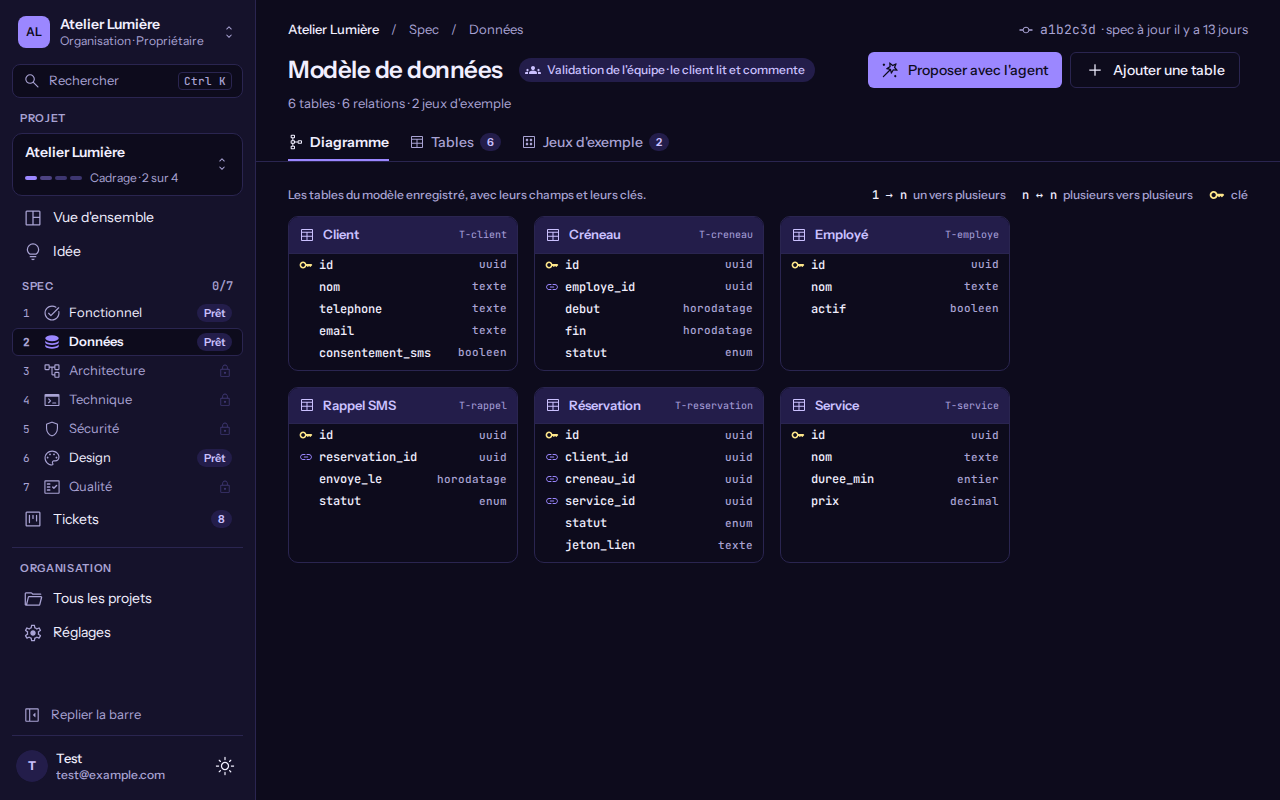
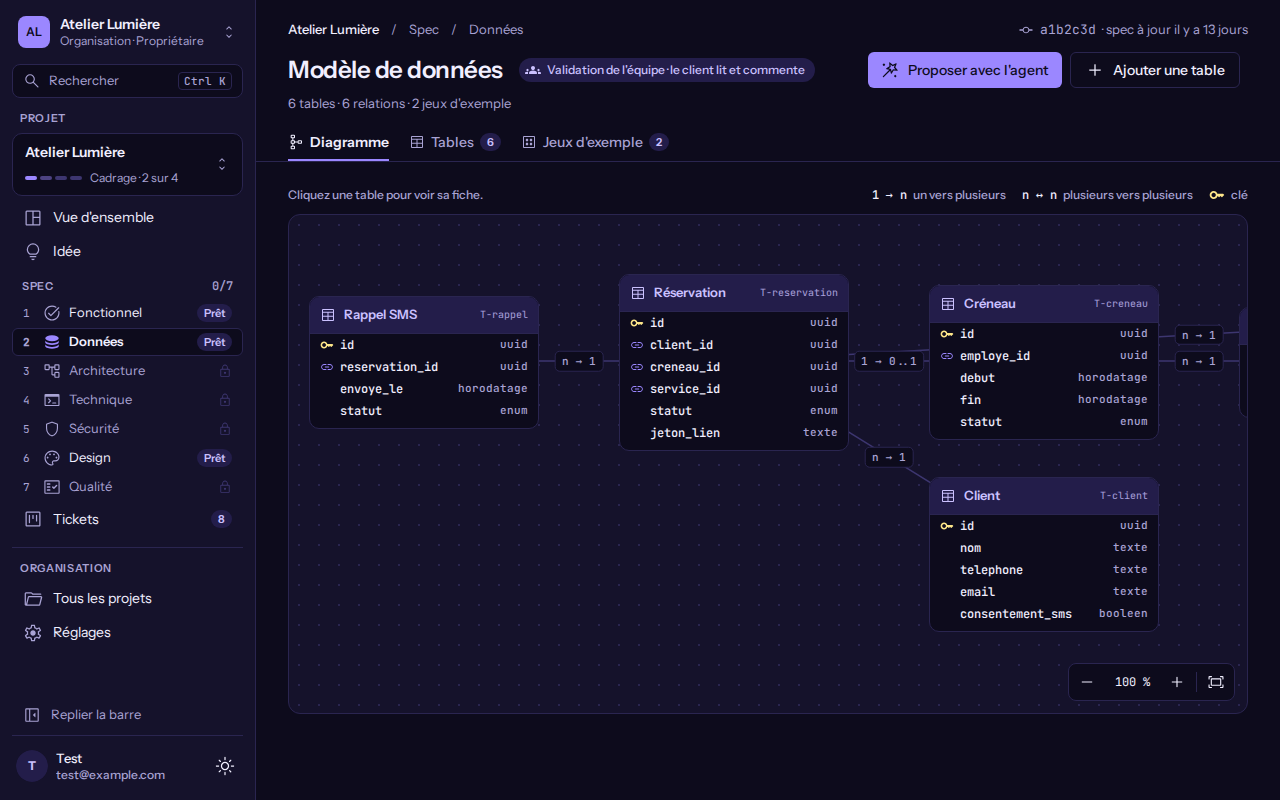
test(e2e): diagramme, fiche, zoom 50 et 200 %, relecture, axe et captures (TK-108)
Claude-Session: https://claude.ai/code/session_011hPeox6QfBBuMqxdquWZTC

diff --git a/apps/web/e2e/spec-data.spec.ts b/apps/web/e2e/spec-data.spec.ts
@@ -4,6 +4,7 @@ import {
   AXE_TAGS,
   CAPTURES_DIR,
   type KanbanRole,
+  layoutSavesSeen,
   releaseHeld,
   setScenario,
   settle,
@@ -15,7 +16,7 @@ import { FEATURE_PROJECT_ID, type SpecMode } from "./support/stub-features.ts";
 import type { ProposalsMode } from "./support/stub-proposals.ts";
 
 /**
- * TK-107 lot C, écran Données (design/screens/S-spec-data.md v1, maquette 11) : chaque état (Prêt, Génération, Relecture,
+ * TK-107 lot C et TK-108 lot C, écran Données (design/screens/S-spec-data.md v3, maquette 11) : chaque état (Prêt, Génération, Relecture,
  * Liste · équipe) sur les onglets Tables et Jeux d'exemple, plus Diagramme, Relecture, volume de 80 tables, recherche
  * vide, formulaire et droits, en clair, sombre et à 375 px, avec axe et sans défilement horizontal de page. Pile locale :
  * faux API (support/stub-spec-data.ts). Captures dans design/screens/captures/S-spec-data/<état>-<onglet>-<thème>[-mobile].png.
@@ -36,6 +37,12 @@ interface View {
   visible: (page: Page) => Promise<void>;
   /** Au plus une région `role=status` dans le document (une région vide est masquée, jamais doublée). */
   singleStatus?: boolean;
+  /** Geste après l'état visible (sélection d'une table, vue YAML, zoom) : la capture le montre. */
+  act?: (page: Page) => Promise<void>;
+  /** Ré-affirmé juste avant la capture, après stabilisation de la page. */
+  settled?: (page: Page) => Promise<void>;
+  /** Capture du bureau seulement (vues YAML, Mermaid et zooms). */
+  desktopOnly?: boolean;
 }
 
 const tablesLoaded = async (page: Page, rows: number) => {
@@ -47,8 +54,22 @@ const fixtureLoaded = async (page: Page) => {
   await expect(page.getByRole("table", { name: "Lignes du jeu Clients" })).toBeVisible();
 };
 const diagramLoaded = async (page: Page, cards: number) => {
-  await expect(page.getByRole("list", { name: "Diagramme entité-relation" })).toBeVisible();
+  await expect(page.getByRole("region", { name: "Diagramme entité-relation" })).toBeVisible();
   await expect(page.locator("[data-slot='er-table-card']")).toHaveCount(cards);
+};
+const card = (page: Page, name: string) =>
+  page.getByRole("button", { name: new RegExp(`^Table ${name},`) });
+const fiche = (page: Page) =>
+  page
+    .getByRole("complementary", { name: "Fiche de la table" })
+    .or(page.getByRole("dialog", { name: "Fiche de la table" }));
+const pick = async (page: Page, name: string) => {
+  await card(page, name).click();
+  await expect(fiche(page).getByRole("heading", { level: 2, name })).toBeVisible();
+};
+const zoom = async (page: Page, label: "Zoomer" | "Dézoomer", times: number) => {
+  for (let i = 0; i < times; i += 1)
+    await page.getByRole("button", { name: label, exact: true }).click();
 };
 const ready = async (page: Page) => {
   await expect(page.getByText("L'agent peut proposer le modèle de données")).toBeVisible();
@@ -106,8 +127,58 @@ const VIEWS: View[] = [
   {
     name: "list-diagram",
     path: `${PATH}?tab=diagram`,
-    singleStatus: true,
     visible: (page) => diagramLoaded(page, 6),
+  },
+  {
+    name: "list-diagram-fiche",
+    path: `${PATH}?tab=diagram`,
+    visible: (page) => diagramLoaded(page, 6),
+    act: (page) => pick(page, "Réservation"),
+    // La fiche doit toujours être là au moment de la capture (la sélection vit dans l'adresse).
+    settled: (page) =>
+      expect(fiche(page).getByRole("heading", { level: 2, name: "Réservation" })).toBeVisible(),
+  },
+  {
+    name: "list-diagram-yaml",
+    path: `${PATH}?tab=diagram`,
+    desktopOnly: true,
+    visible: (page) => diagramLoaded(page, 6),
+    act: async (page) => {
+      await pick(page, "Réservation");
+      await fiche(page).getByRole("button", { name: "YAML" }).click();
+      await expect(fiche(page).getByText("Source de vérité")).toBeVisible();
+    },
+  },
+  {
+    name: "list-diagram-mermaid",
+    path: `${PATH}?tab=diagram`,
+    desktopOnly: true,
+    visible: (page) => diagramLoaded(page, 6),
+    act: async (page) => {
+      await pick(page, "Réservation");
+      await fiche(page).getByRole("button", { name: "Mermaid" }).click();
+      await expect(fiche(page).getByText("data/model.mmd")).toBeVisible();
+    },
+  },
+  {
+    name: "list-diagram-zoom-50",
+    path: `${PATH}?tab=diagram`,
+    desktopOnly: true,
+    visible: (page) => diagramLoaded(page, 6),
+    act: async (page) => {
+      await zoom(page, "Dézoomer", 4);
+      await expect(page.getByText(/Zoom sous 60 %/)).toBeVisible();
+    },
+  },
+  {
+    name: "list-diagram-zoom-200",
+    path: `${PATH}?tab=diagram`,
+    desktopOnly: true,
+    visible: (page) => diagramLoaded(page, 6),
+    act: async (page) => {
+      await zoom(page, "Zoomer", 4);
+      await expect(page.getByRole("button", { name: "200 %, revenir à 100 %" })).toBeVisible();
+    },
   },
   {
     name: "review-diagram",
@@ -117,6 +188,26 @@ const VIEWS: View[] = [
     visible: async (page) => {
       await diagramLoaded(page, 6);
       await expect(page.getByText("Pointillés : proposition à relire")).toBeVisible();
+    },
+  },
+  {
+    name: "review-diagram-rejected",
+    spec: "dataEmpty",
+    proposals: "data",
+    path: `${PATH}?tab=diagram&view=review`,
+    visible: (page) => diagramLoaded(page, 6),
+    act: async (page) => {
+      // Les décisions se prennent dans l'onglet Relecture : rejeter « Client », puis revenir au diagramme.
+      await page.getByRole("link", { name: /^Relecture/ }).click();
+      await expect(page.getByRole("region", { name: "Diagramme entité-relation" })).toHaveCount(0);
+      await page
+        .getByRole("button", { name: /Client/ })
+        .first()
+        .click();
+      await page.getByRole("button", { name: /^Rejeter/ }).click();
+      await page.getByRole("link", { name: /^Diagramme/ }).click();
+      await diagramLoaded(page, 6);
+      await expect(page.getByText("Rejetée").first()).toBeVisible();
     },
   },
   {
@@ -178,6 +269,7 @@ const VIEWS: View[] = [
 for (const viewport of VIEWPORTS) {
   for (const theme of THEMES) {
     for (const view of VIEWS) {
+      if (view.desktopOnly && viewport.name) continue;
       test(`S-spec-data ${view.name} (${theme}${viewport.name}) : état, axe sans violation, capture`, async ({
         page,
       }) => {
@@ -197,12 +289,14 @@ for (const viewport of VIEWPORTS) {
         }
         await page.goto(view.path);
         await view.visible(page);
+        await view.act?.(page);
         await expect(page.locator("html")).toHaveClass(
           theme === "dark" ? /dark/ : /^((?!dark).)*$/,
         );
         if (view.singleStatus)
           expect(await page.locator("[role='status']").count()).toBeLessThanOrEqual(1);
         await settle(page);
+        await view.settled?.(page);
         await page.screenshot({
           path: `${CAPTURES_DIR}/S-spec-data/${view.name}-${theme}${viewport.name}.png`,
           fullPage: true,
@@ -350,6 +444,92 @@ test.describe("parcours de l'écran Données", () => {
         ],
       },
     ]);
+  });
+});
+
+// biome-ignore lint/complexity/noExcessiveLinesPerFunction: suite de cas, un test par comportement
+test.describe("diagramme du modèle (TK-108)", () => {
+  test.beforeEach(async ({ page }) => {
+    await page.setViewportSize({ width: 1280, height: 900 });
+    await setScenario({ session: true, projects: "data", proposals: "none" });
+  });
+
+  test("sélection : la table est pressée, sa fiche s'ancre avec Fiche, YAML et Mermaid", async ({
+    page,
+  }) => {
+    await page.goto(`${PATH}?tab=diagram`);
+    await diagramLoaded(page, 6);
+    await pick(page, "Réservation");
+    await expect(card(page, "Réservation")).toHaveAttribute("aria-pressed", "true");
+    await expect(fiche(page).getByRole("table", { name: "Champs de la table" })).toBeVisible();
+    await fiche(page).getByRole("button", { name: "YAML" }).click();
+    await expect(fiche(page).locator("pre")).toContainText("id: T-reservation");
+    await fiche(page).getByRole("button", { name: "Mermaid" }).click();
+    await expect(fiche(page).locator("pre")).toContainText("erDiagram");
+  });
+
+  test("glisser une table enregistre toute la mise en page une seule fois", async ({ page }) => {
+    await page.goto(`${PATH}?tab=diagram`);
+    await diagramLoaded(page, 6);
+    await page.getByRole("button", { name: "Ajuster à l'écran" }).click();
+    const box = await card(page, "Service").boundingBox();
+    if (!box) throw new Error("carte Service introuvable");
+    await page.mouse.move(box.x + 40, box.y + 10);
+    await page.mouse.down();
+    await page.mouse.move(box.x + 140, box.y + 60, { steps: 8 });
+    await page.mouse.up();
+    await expect.poll(async () => (await layoutSavesSeen()).length, { timeout: 5000 }).toBe(1);
+    const [saved] = await layoutSavesSeen();
+    expect(Object.keys(saved?.positions ?? {})).toEqual(["T-service"]);
+  });
+
+  test("Alt + flèche déplace la table de 20 px (alternative au glisser) et enregistre", async ({
+    page,
+  }) => {
+    await page.goto(`${PATH}?tab=diagram`);
+    await diagramLoaded(page, 6);
+    await card(page, "Client").focus();
+    await page.keyboard.press("Alt+ArrowRight");
+    await expect(page.getByText("Client déplacée")).toBeAttached();
+    await expect.poll(async () => (await layoutSavesSeen()).length, { timeout: 5000 }).toBe(1);
+  });
+
+  test("zoom mémorisé par navigateur : rouvert au rechargement", async ({ page }) => {
+    await page.goto(`${PATH}?tab=diagram`);
+    await diagramLoaded(page, 6);
+    await zoom(page, "Zoomer", 1);
+    await expect(page.getByRole("button", { name: "110 %, revenir à 100 %" })).toBeVisible();
+    await page.reload();
+    await diagramLoaded(page, 6);
+    await expect(page.getByRole("button", { name: "110 %, revenir à 100 %" })).toBeVisible();
+  });
+
+  test("sous 1024 px, Tables s'ouvre par défaut", async ({ page }) => {
+    await page.setViewportSize({ width: 900, height: 800 });
+    await page.goto(PATH);
+    await tablesLoaded(page, 6);
+    await expect(page.getByRole("region", { name: "Diagramme entité-relation" })).toHaveCount(0);
+  });
+
+  test("designer : lecture seule, pas de glisser ni de « Modifier », YAML visible", async ({
+    page,
+  }) => {
+    await setScenario({ session: true, projects: "data", role: "designer", proposals: "none" });
+    await page.goto(`${PATH}?tab=diagram`);
+    await diagramLoaded(page, 6);
+    await page.getByRole("button", { name: "Ajuster à l'écran" }).click();
+    const box = await card(page, "Service").boundingBox();
+    if (!box) throw new Error("carte Service introuvable");
+    await page.mouse.move(box.x + 40, box.y + 10);
+    await page.mouse.down();
+    await page.mouse.move(box.x + 140, box.y + 60, { steps: 8 });
+    await page.mouse.up();
+    await pick(page, "Service");
+    await expect(fiche(page).getByRole("button", { name: "Modifier" })).toHaveCount(0);
+    await fiche(page).getByRole("button", { name: "YAML" }).click();
+    await expect(fiche(page).getByText("Source de vérité")).toBeVisible();
+    await page.waitForTimeout(1000);
+    expect(await layoutSavesSeen()).toHaveLength(0);
   });
 });
 

diff --git a/apps/web/e2e/support/stub-spec-data.ts b/apps/web/e2e/support/stub-spec-data.ts
@@ -376,11 +376,86 @@ interface Handlers {
   send: (reply: Reply) => void;
 }
 
+// --- Diagramme (TK-108, contrat 3.6.0) : positions enregistrées dans data/_layout.yaml et source d'une table ---
+type Position = { x: number; y: number };
+let layoutPositions: Record<string, Position> = {};
+const layoutSaves: Array<Record<string, unknown>> = [];
+
+/** Remet à zéro les positions et le journal des dépôts (changement de scénario). */
+export function resetLayout(): void {
+  layoutPositions = {};
+  layoutSaves.length = 0;
+}
+
+const LAYOUT_SHA = "b2c3d4e5f60718293a4b5c6d7e8f9012345678a1";
+
+const sourceYamlOf = (table: Table): string => {
+  const lines = [
+    `id: ${table.specId}`,
+    `nom: ${table.name}`,
+    "description: >",
+    `  ${table.description}`,
+    `source: [${table.sources.join(", ")}]`,
+    "champs:",
+  ];
+  for (const [name, type, constraint, kind, personal] of table.fields) {
+    lines.push(`  - nom: ${name}`, `    type: ${type}`);
+    lines.push(kind === "pk" ? "    cle: primaire" : `    contraintes: "${constraint}"`);
+    if (personal) lines.push("    donnees_personnelles: true   # NFR-001");
+  }
+  if (table.relations.length > 0) lines.push("relations:");
+  for (const relation of table.relations) {
+    lines.push(`  - vers: ${relation.to}`, `    cardinalite: "${relation.cardinality}"`);
+  }
+  return `${lines.join("\n")}\n`;
+};
+
+const LAYOUT = /^\/projects\/[^/]+\/spec\/data\/layout$/;
+const SOURCE = /^\/projects\/[^/]+\/spec\/data\/tables\/([^/]+)\/source$/;
+
+/** Lecture et dépôt des positions, source d'une table, journal des dépôts (`/__layout-saves`). */
+function handleDiagram(req: IncomingMessage, url: URL, h: Handlers, mode: string): boolean {
+  if (url.pathname === "/__layout-saves") {
+    h.send(reply(200, layoutSaves));
+    return true;
+  }
+  if (LAYOUT.test(url.pathname)) {
+    if (req.method === "POST") {
+      let raw = "";
+      req.on("data", (chunk) => {
+        raw += chunk;
+      });
+      req.on("end", () => {
+        const body = JSON.parse(raw || "{}") as { positions?: Record<string, Position> };
+        layoutSaves.push(body);
+        layoutPositions = body.positions ?? {};
+        h.send(reply(200, { commitSha: LAYOUT_SHA }));
+      });
+    } else h.send(reply(200, { positions: layoutPositions, commitSha: LAYOUT_SHA }));
+    return true;
+  }
+  const source = req.method === "GET" ? SOURCE.exec(url.pathname) : null;
+  if (!source) return false;
+  const found = tablesOf(mode).find((t) => t.specId === source[1]);
+  h.send(
+    found
+      ? reply(200, {
+          path: `data/tables/${found.specId.slice(2)}.yaml`,
+          text: sourceYamlOf(found),
+          commitSha: SHA,
+          generated: false,
+        })
+      : typed(404, "NOT_FOUND"),
+  );
+  return true;
+}
+
 const DATA = /^\/projects\/[^/]+\/spec\/data\/(tables|mermaid|fixtures)(?:\/([^/]+)\/rows)?$/;
 const ITEM = /^\/projects\/[^/]+\/spec\/items\/table\/([^/]+)$/;
 
 /** Répond aux lectures des onglets Données et à la lecture d'édition d'une table, `false` pour toute autre route. */
 export function handleSpecData(req: IncomingMessage, url: URL, h: Handlers, mode: string): boolean {
+  if (handleDiagram(req, url, h, mode)) return true;
   if (req.method !== "GET") return false;
   const item = ITEM.exec(url.pathname);
   if (item) {

diff --git a/apps/web/e2e/support/helpers.ts b/apps/web/e2e/support/helpers.ts
@@ -146,6 +146,10 @@ export interface SpecWrite {
 export const specWritesSeen = async (): Promise<SpecWrite[]> =>
   (await fetch(`${STUB}/__spec-writes`)).json();
 
+/** Dépôts de positions du diagramme reçus par le faux API (`spec.data.layout.save` : corps), dans l'ordre. */
+export const layoutSavesSeen = async (): Promise<Array<{ positions: Record<string, unknown> }>> =>
+  (await fetch(`${STUB}/__layout-saves`)).json();
+
 /** Appels des fournisseurs d'IA reçus par le faux API (le corps de l'ajout porte la clé), dans l'ordre. */
 export interface ProviderCall {
   method: string;

diff --git a/apps/web/e2e/support/stub-features.ts b/apps/web/e2e/support/stub-features.ts
@@ -8,7 +8,7 @@ import {
   resetFeatureWrites,
   type WriteMode,
 } from "./stub-feature-write.ts";
-import { dataCounts, handleSpecData } from "./stub-spec-data.ts";
+import { dataCounts, handleSpecData, resetLayout } from "./stub-spec-data.ts";
 import { domainCounts, handleSpecDomain } from "./stub-spec-domain.ts";
 import { handleSpecItem, type SpecItemScenario } from "./stub-spec-item.ts";
 
@@ -159,6 +159,7 @@ let specRepoCreated = false;
 
 export function resetFeatures(): void {
   resetFeatureWrites();
+  resetLayout();
   reads.length = 0;
   specRepoCreated = false;
 }

diff --git a/design/screens/S-spec-data.md b/design/screens/S-spec-data.md
@@ -1,7 +1,7 @@
 ---
 id: S-spec-data
 titre: Spec · Données (modèle de données : Prêt, Génération, Relecture, Liste · équipe)
-version: 2
+version: 3
 ---
 > Maquette qui fait foi : `docs/refonte/maquettes/11-Lot6Donnees.html` (`pnpm maquette 11`), passations 09 §1 à §3.4 et §5, 08 §2.2, 11 §3. Même socle que [S-spec-functional](S-spec-functional.md) (`ProposalReview`, `SpecCollection`, `SpecItemSheet`, listes longues). TK-107 livre le format, les états et les onglets Tables et Jeux d'exemple ; le diagramme interactif et la fiche (TK-108), la validation et la vue client (TK-109) viennent après.
 
@@ -37,8 +37,14 @@ Onglets en `nav` (`aria-current`) ; une seule région `role=status` par page (co
 ## 9. Questions ouvertes
 Aucune bloquante (B383 à B392).
 
-## 10. Historique
+## 10. Diagramme (TK-108)
+Pleine hauteur sous les onglets (marge 24), aide « Cliquez une table pour voir sa fiche. » + légende ; lecteur à trame de points, cartes 230 px, relations avec cardinalité, sélection en `--primary`, barre `role="toolbar"` de zoom (paliers 50 à 200, `Ctrl/⌘ + − 0`, molette, « Ajuster », mémorisé en stockage local). Fiche à droite : Fiche (description, champs, relations, « Utilisée par »), YAML (`data/tables/<slug>.yaml`, « Source de vérité »), Mermaid (`data/model.mmd`, « Généré », « Copier »), `pre` en texte brut ; YAML et Mermaid pour l'équipe seulement. Relecture : pointillés « À relire », rejetée estompée par jetons. Sous 1024 px onglet Tables par défaut, sous 768 px commandes 44 px et pas de glisser. Alternative textuelle : onglet Tables et fiche ; chaque carte est un `button` `aria-pressed`. Hors périmètre : validation, vue client (TK-109), zones et mini-carte (TK-110).
+
+Réalisation (lot C) : aucune table choisie à l'ouverture ; au premier clic la fiche s'ancre (`aside` 340 à 400 px dès 1280 px, feuille à droite en dessous, focus rendu à la carte par Échap). Glisser réservé à qui écrit les Données (owner, admin, dev), dépôt de toute la mise en page 600 ms après le dernier geste, toast d'erreur « Mise en page non enregistrée » en cas d'échec (la carte garde sa place). Aide sous le lecteur : « Cliquez une table… », celle de la relecture, ou « Zoom sous 60 % : seuls les noms des tables s'affichent. Zoomez pour voir les champs. ». Chargement : cadre squelette `role=status` ; erreur : `ErrorNotice` « Réessayer » ; vide : `EmptyState` `schema`. Captures : `design/screens/captures/S-spec-data/list-diagram{,-fiche,-yaml,-mermaid,-zoom-50,-zoom-200}-{light,dark}[-mobile].png` (yaml, mermaid et zooms au bureau seulement), `review-diagram-*` pour la relecture (pointillés, rejetée).
+
+## 11. Historique
 | Version | Date | Ticket | Changement et raison |
 |---|---|---|---|
+| 3 | 2026-11-13 | TK-108 | Diagramme interactif `DiagramViewer` (dagre, relations, sélection, zoom 50 à 200 %, glisser et Alt + flèches vers `_layout.yaml`, noms seuls sous 60 %), fiche ancrée Fiche / YAML / Mermaid (équipe), onglet Tables par défaut sous 1024 px, fiche en panneau sous 1280 px (B417 à B428). |
 | 2 | 2026-11-13 | TK-107 (lot C) | Réalisation : onglet Relecture caché pendant la génération et bandeau sur les trois autres onglets (B404) ; diagramme lu de `data/model.mmd` (B403) ; carte rejetée estompée par les jetons, pas par l'opacité (B405) ; formulaire Table à lignes de champs `nom · type · contrainte` et zone en saisie libre avec suggestions (B402) ; enregistrement des relations et cascade du rejet (B406). |
 | 1 | 2026-11-13 | TK-107 | Création : page Spec · Données (Prêt, Génération, Relecture, Liste · équipe), onglets Tables et Jeux d'exemple, Diagramme minimal, formulaire Table ; `ErTableCard` ajouté à `packages/ui` (DESIGN.md §5.18). |
